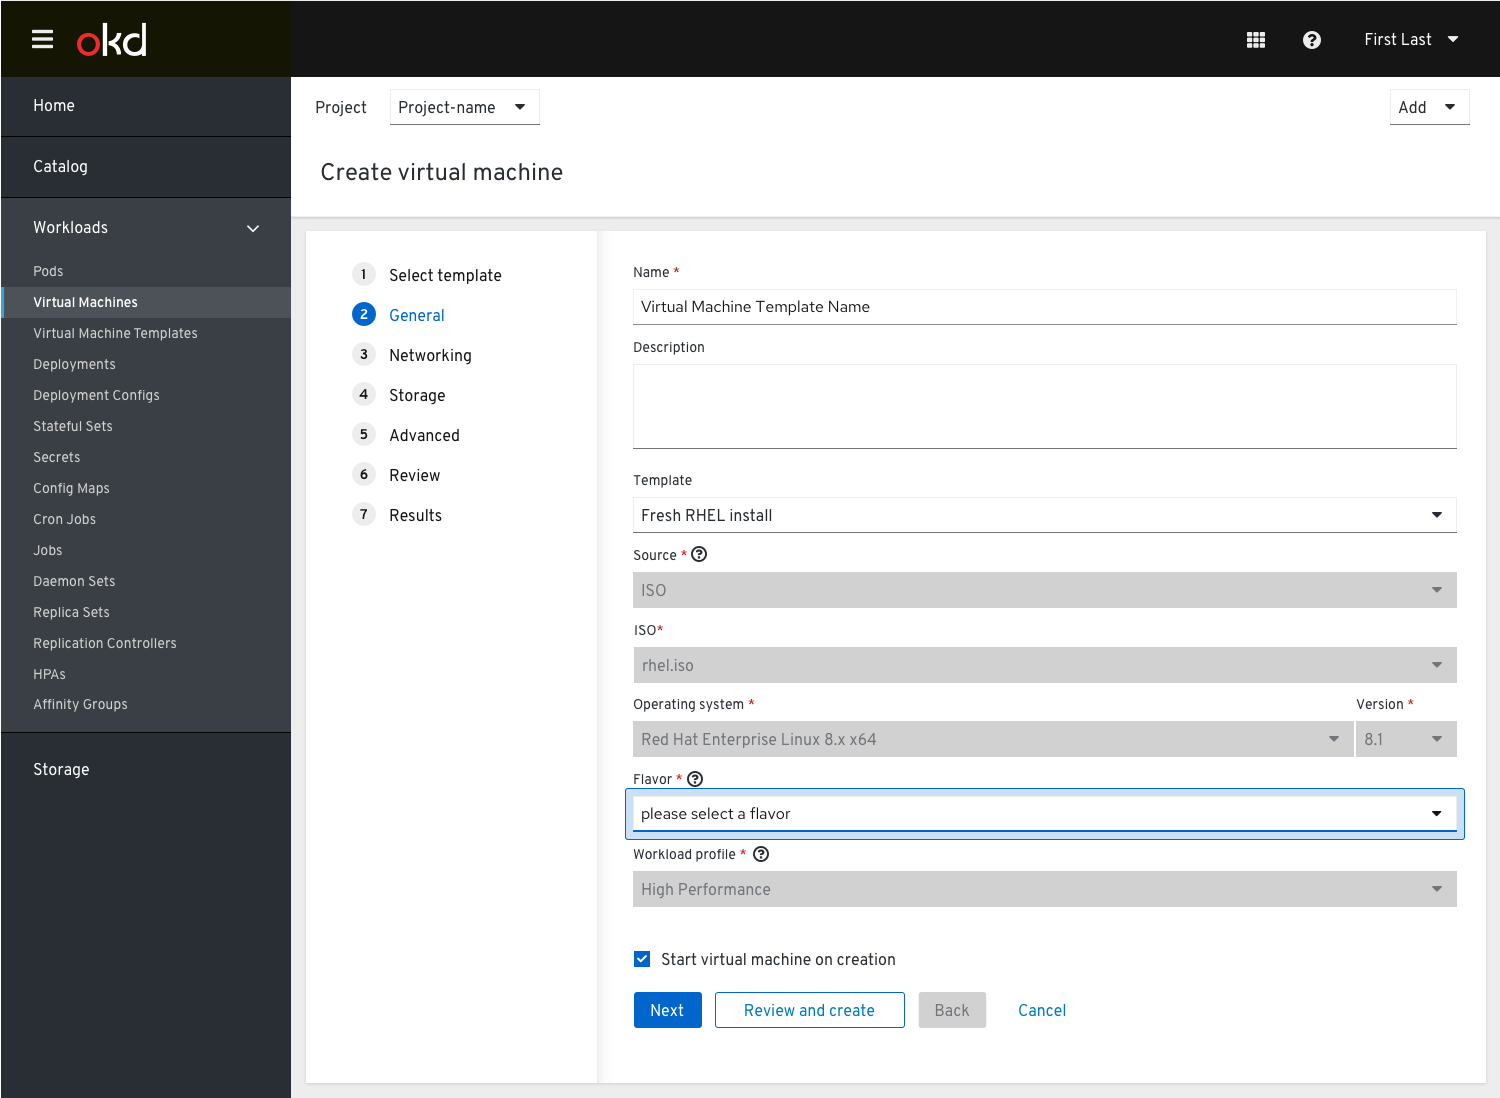
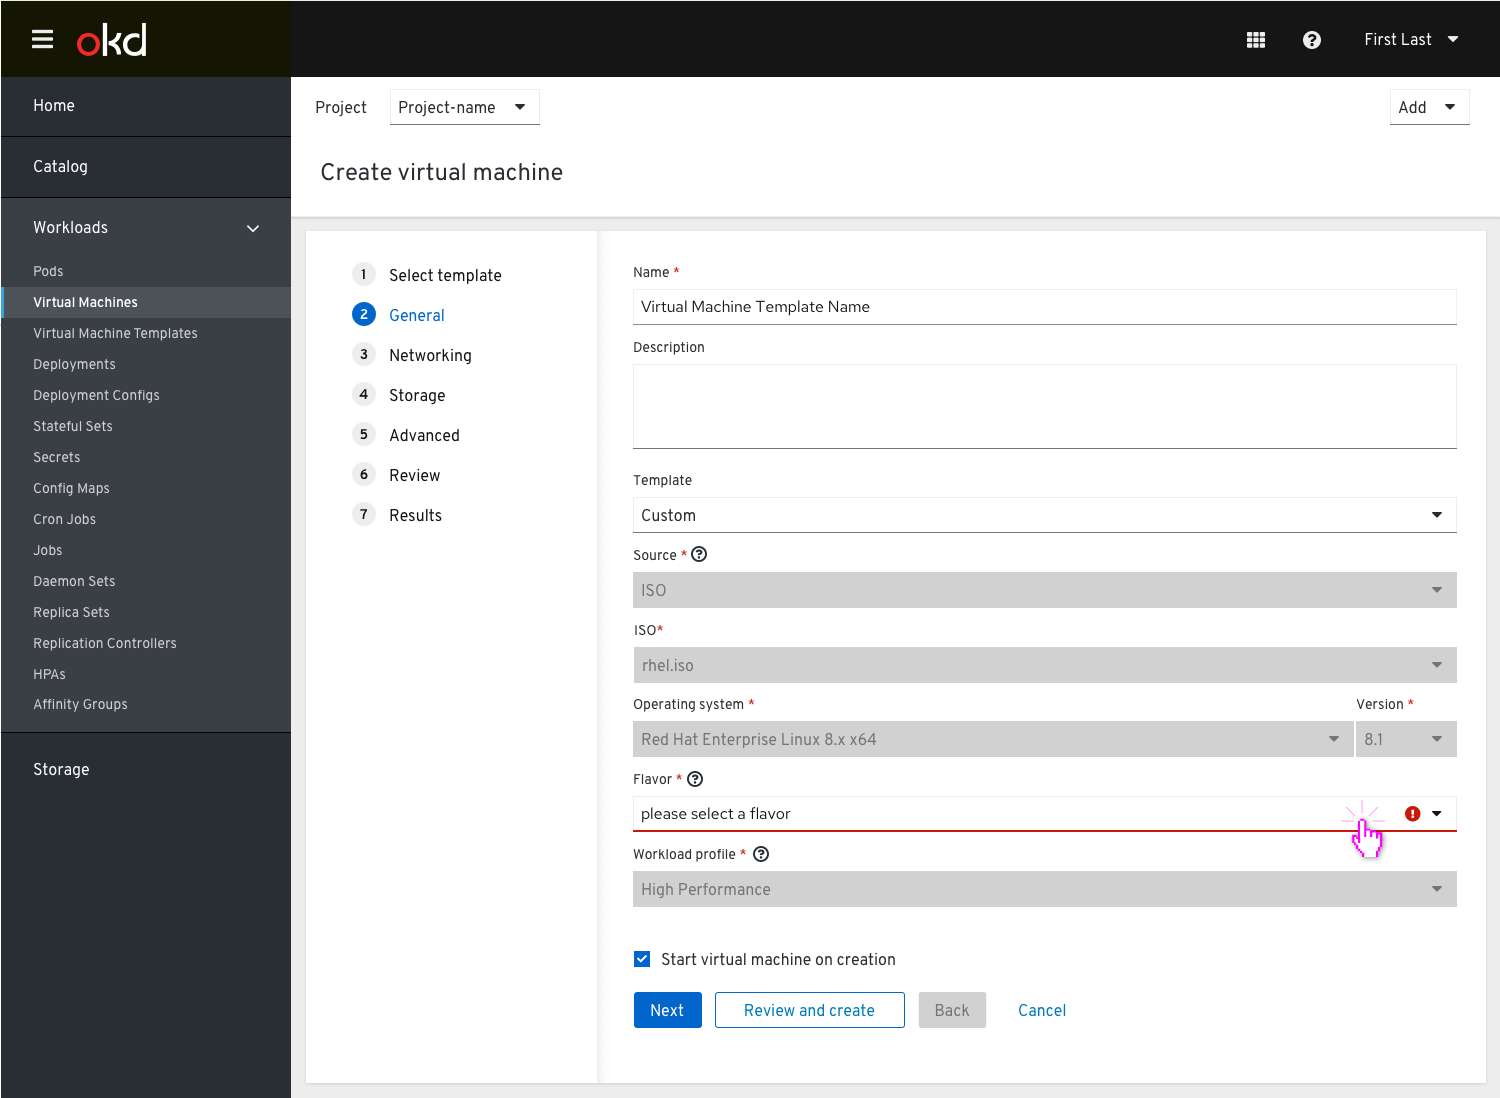
updates in the in wizard flow

Changed region(s): [[0.3987, 0.7122, 0.9813, 0.7741], [0.4293, 0.4645, 0.5213, 0.4954]]

diff --git a/designs/virtualization/4.x/Templates/Templates.md b/designs/virtualization/4.x/Templates/Templates.md
@@ -2,19 +2,17 @@
 
 ## Virtual machines and VM templates are located under Virtualization
 
-Removing the tab ‘Virtual Machine Templates’ from the side navigation and combining it with ‘Virtual Machines’, so both are located under ‘Virtualization’.
-This PR will focus on how users can create a VM when they choose a to create a VM from a template.
+One of the options for users to create a VM is when they choose a to create it from a template.
+Under the left side navigation tab ‘Virtualization’ we'll have 2 tabs: ‘Virtual Machine Templates’ and ‘Virtual Machines’.
 
 ### Virtual Machine Templates Tab
 
 From the Virtualization left nav item the user goes to the Virtual machine templates tab where they can see the full list of templates.
 From this point, we suggest 2 options to create a VM:
 
-- Create VM via an action from the kebab menu
+Create VM via an action from the kebab menu and also allow an action link.
 
 ![TemplatesTabOp1](img/TemplatesTabsOp1.png)
-
-- Create VM via an action from the kebab menu and also allow an action link
 
 ![TemplatesTabOp2](img/TemplatesTabsOp2.png)
 
@@ -26,7 +24,7 @@ If all they need is to provide a name for the VM, they can skip to the 'Review a
 
 ![user reviews settings](img/CompletesReqiredInfoTemplate.png)
 
-If they need to edit the template before they create the VM, they will need to go through the steps to edit the settings and then create the VM. F.e. if a user wants to change the flavor, they will need to go to the general step and reedit this field.
+If they need to edit any of the settings for this VM that are different from the template they started with, they will need to go through the steps to edit the settings and then create the VM. F.e. if a user wants to change the flavor, they will need to go to the general step and reedit this field.
 
 ![user reviews settings](img/edit-t-before-creating-vm.png)
 
@@ -36,7 +34,7 @@ From the Virtualization left nav item the user goes to the Virtual machines tab 
 
 ![User selects to create VM from template](img/Dropdown_CreateTemplate.png)
 
-They will get to the list of templates where they can select a template to create the VM from.
+They will get to the list of templates where they can select a template to create the VM from. When the user clicks 'Select' they should go to the 'Review' step to review the settings and then create the VM.
 
 ![Listoftemplates](img/select-t-from-wizard-list.png)
 
